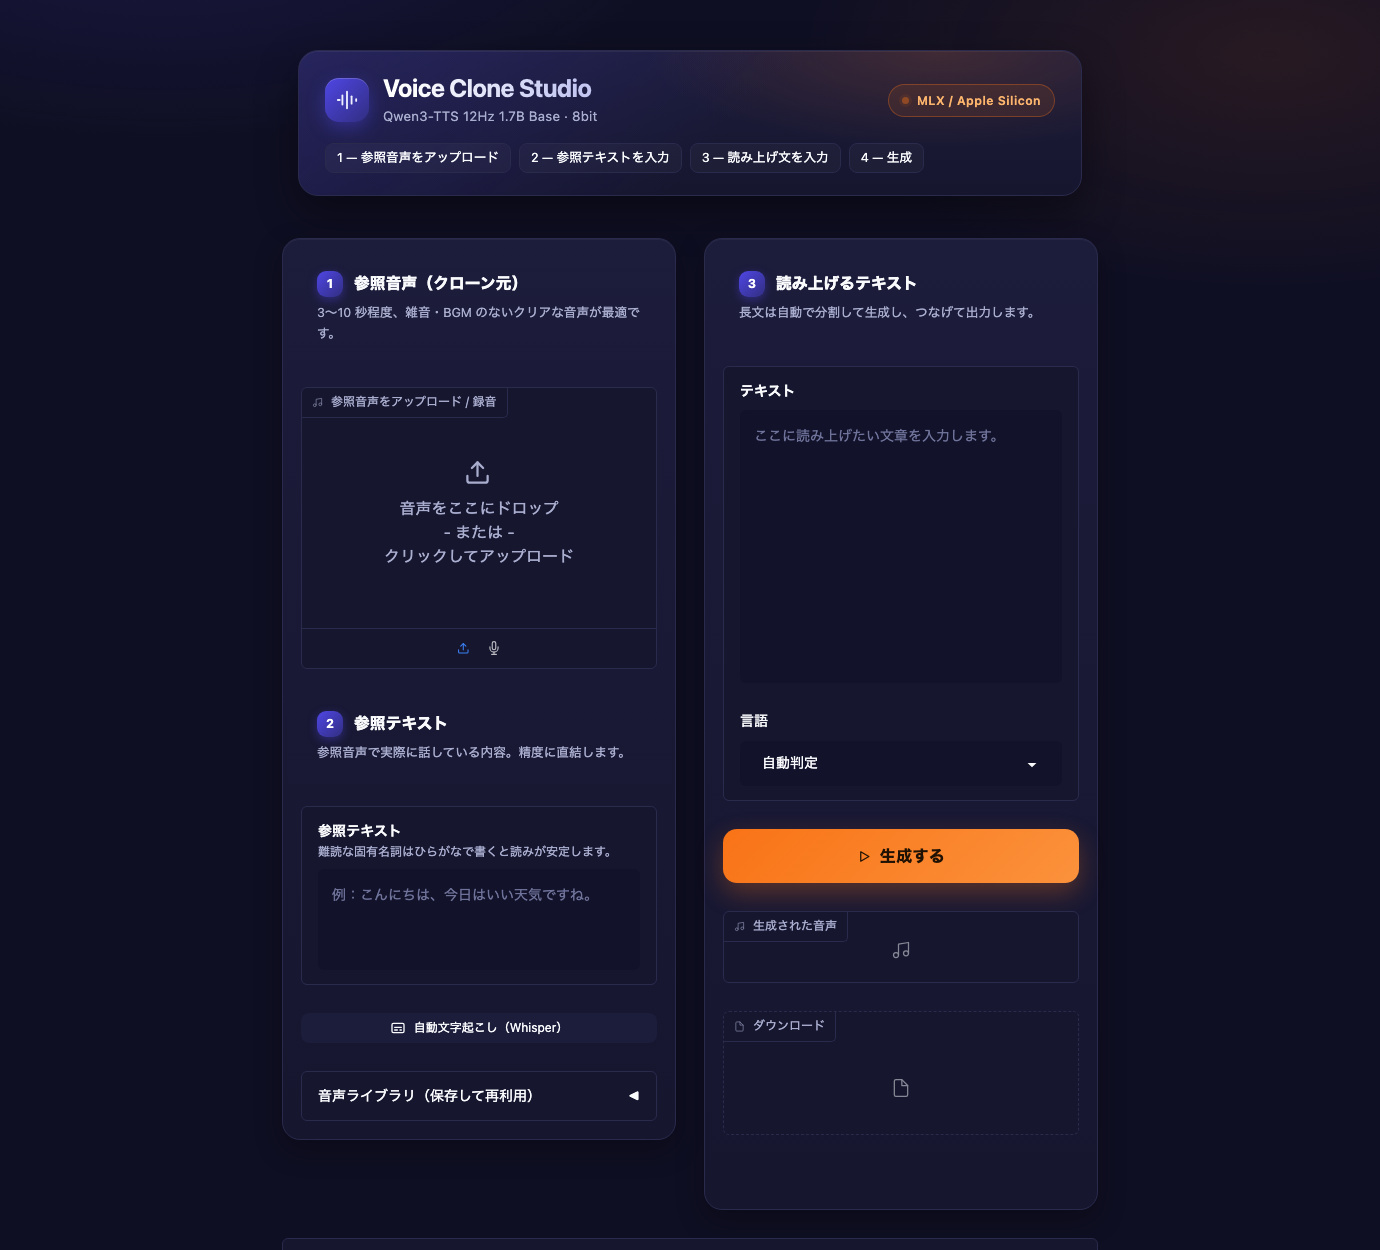
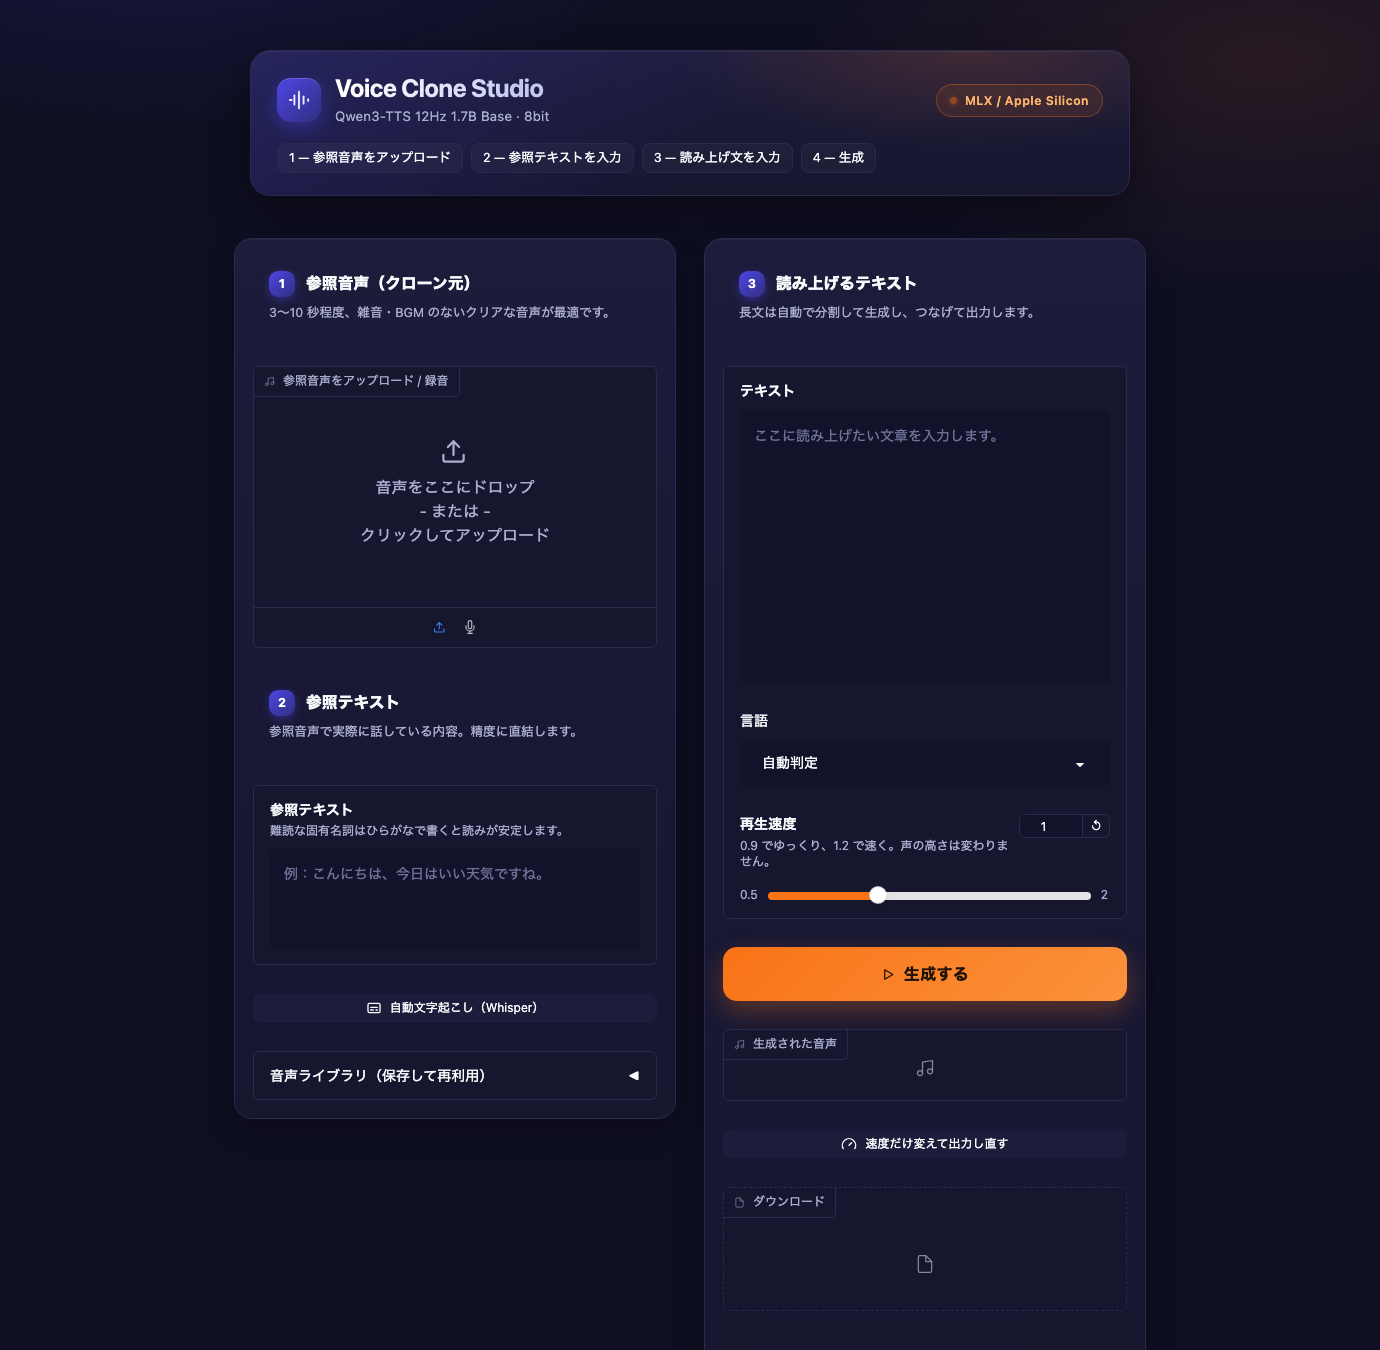
再生速度の指定と、速度だけ変えての再出力に対応
Qwen3-TTS 自体は話速指定に対応していない（mlx-audio の speed は
Qwen3-TTS では未実装）ため、生成後に WSOLA で伸縮する。単純な
リサンプリングと違い声の高さは変わらない。

- change_speed(): ピッチ保持のテンポ変更（0.75〜1.25 倍で長さ誤差 2% 以内、
  F0 変化 0.5% 以内、Whisper での聞き取りも確認）
- 再生速度スライダー（0.5〜2.0）を追加。ダウンロードされる WAV も
  速度適用後のものになり、等倍以外はファイル名に _x0.90 が付く
- 等倍の音声を gr.State に保持し、「速度だけ変えて出力し直す」で
  TTS を再実行せずに掛け直せるようにした
- 保存とカード生成を _finalize() に集約。RTF は速度適用前の長さで算出

diff --git a/app.py b/app.py
@@ -102,6 +102,57 @@ def split_text(text: str, max_chars: int) -> list[str]:
 
 
 # --------------------------------------------------------------------------
+# 再生速度（WSOLA によるピッチ保持のテンポ変更）
+# --------------------------------------------------------------------------
+def change_speed(audio: np.ndarray, speed: float, sample_rate: int) -> np.ndarray:
+    """速度を変える。speed<1 で遅く、>1 で速くなる。ピッチは変わらない。
+
+    Qwen3-TTS 側に速度指定が無いため生成後に伸縮する。単純なリサンプリングだと
+    声の高さまで変わってしまうので、波形の周期に合わせて重ね合わせる WSOLA を使う。
+    """
+    if abs(speed - 1.0) < 1e-3 or len(audio) == 0:
+        return audio.astype(np.float32)
+
+    frame = int(sample_rate * 0.040)  # 40ms の分析窓
+    hop_out = frame // 2  # 出力側ホップ（50% オーバーラップ）
+    hop_in = max(1, int(round(hop_out * speed)))  # 入力側ホップ
+    search = int(sample_rate * 0.010)  # 前フレームとの整合を探す幅（±10ms）
+    overlap = frame - hop_out
+    window = np.hanning(frame).astype(np.float32)
+
+    x = np.concatenate(
+        [audio.astype(np.float32), np.zeros(frame + search + hop_in, np.float32)]
+    )
+    out_len = int(len(audio) / speed) + 2 * frame
+    out = np.zeros(out_len, np.float32)
+    norm = np.zeros(out_len, np.float32)
+
+    pos_in = pos_out = 0
+    tail = None
+    while pos_in + frame + search < len(x) and pos_out + frame < out_len:
+        if tail is None:
+            best = pos_in
+        else:
+            # 直前フレームの後半と最も似た位置を探し、位相のずれによる濁りを防ぐ
+            lo = max(0, pos_in - search)
+            hi = min(len(x) - frame, pos_in + search)
+            if hi <= lo:
+                best = min(pos_in, len(x) - frame)
+            else:
+                seg = x[lo : hi + overlap]
+                best = lo + int(np.argmax(np.correlate(seg, tail, mode="valid")))
+        out[pos_out : pos_out + frame] += x[best : best + frame] * window
+        norm[pos_out : pos_out + frame] += window
+        tail = x[best + hop_out : best + hop_out + overlap]
+        pos_out += hop_out
+        pos_in += hop_in
+
+    end = pos_out + frame
+    norm[:end][norm[:end] < 1e-6] = 1.0
+    return (out[:end] / norm[:end]).astype(np.float32)
+
+
+# --------------------------------------------------------------------------
 # 文字起こし
 # --------------------------------------------------------------------------
 def transcribe(ref_audio: str | None) -> str:
@@ -130,6 +181,7 @@ def synthesize(
     chunk_chars: int,
     pause_sec: float,
     seed: int,
+    speed: float = 1.0,
     progress=gr.Progress(),
 ):
     if not ref_audio:
@@ -181,25 +233,49 @@ def synthesize(
 
     audio = np.concatenate(audio_parts)
     elapsed = time.time() - t0
-    duration = len(audio) / sample_rate
+    raw_duration = len(audio) / sample_rate
 
-    out_path = OUTPUT_DIR / f"{datetime.now():%Y%m%d-%H%M%S}.wav"
-    sf.write(out_path, audio, sample_rate)
-
-    metrics = [
-        (f"{duration:.1f}s", "音声の長さ"),
+    extra = [
         (f"{elapsed:.1f}s", "生成時間"),
-        (f"{elapsed / duration:.2f}", "RTF"),
+        (f"{elapsed / raw_duration:.2f}", "RTF"),
         (str(len(chunks)), "チャンク"),
         (str(total_tokens), "トークン"),
     ]
+    return (*_finalize(audio, sample_rate, speed, extra), (sample_rate, audio))
+
+
+def _finalize(
+    audio: np.ndarray,
+    sample_rate: int,
+    speed: float,
+    extra_metrics: list[tuple[str, str]] | None = None,
+    head: str = "生成が完了しました",
+):
+    """速度を適用して WAV に保存し、(音声, 保存パス, 結果カード HTML) を返す。"""
+    out = change_speed(audio, float(speed), sample_rate)
+    duration = len(out) / sample_rate
+
+    suffix = "" if abs(speed - 1.0) < 1e-3 else f"_x{speed:.2f}"
+    out_path = OUTPUT_DIR / f"{datetime.now():%Y%m%d-%H%M%S}{suffix}.wav"
+    sf.write(out_path, out, sample_rate)
+
+    metrics = [(f"{duration:.1f}s", "音声の長さ"), (f"{speed:.2f}x", "再生速度")]
+    metrics += extra_metrics or []
     cells = "".join(f"<div><b>{v}</b><span>{k}</span></div>" for v, k in metrics)
     info = (
-        '<div class="result-card"><div class="result-head">生成が完了しました</div>'
+        f'<div class="result-card"><div class="result-head">{head}</div>'
         f'<div class="result-metrics">{cells}</div>'
         f'<div class="result-path">{escape(str(out_path))}</div></div>'
     )
-    return (sample_rate, audio), str(out_path), info
+    return (sample_rate, out), str(out_path), info
+
+
+def apply_speed(raw, speed: float):
+    """生成済みの音声に速度だけ掛け直す（TTS は再実行しない）。"""
+    if not raw:
+        raise gr.Error("先に音声を生成してください。")
+    sample_rate, audio = raw
+    return _finalize(audio, sample_rate, speed, head="速度を変更しました")
 
 
 # --------------------------------------------------------------------------
@@ -315,6 +391,14 @@ with gr.Blocks(title="Voice Clone Studio — Qwen3-TTS") as demo:
             lang = gr.Dropdown(
                 label="言語", choices=LANGUAGES, value="auto", filterable=False
             )
+            speed = gr.Slider(
+                0.5,
+                2.0,
+                value=1.0,
+                step=0.05,
+                label="再生速度",
+                info="0.9 でゆっくり、1.2 で速く。声の高さは変わりません。",
+            )
             run_btn = gr.Button(
                 "生成する", variant="primary", size="lg", elem_classes=["cta", "ic-play"]
             )
@@ -322,8 +406,12 @@ with gr.Blocks(title="Voice Clone Studio — Qwen3-TTS") as demo:
             out_audio = gr.Audio(
                 label="生成された音声", type="numpy", autoplay=False, elem_classes="slim"
             )
+            speed_btn = gr.Button(
+                "速度だけ変えて出力し直す", size="sm", elem_classes="ic-speed"
+            )
             out_file = gr.File(label="ダウンロード", elem_classes="slim")
             out_info = gr.HTML()
+            raw_audio_state = gr.State()
 
     with gr.Accordion("詳細設定", open=False):
         with gr.Row():
@@ -354,8 +442,13 @@ with gr.Blocks(title="Voice Clone Studio — Qwen3-TTS") as demo:
         synthesize,
         inputs=[
             ref_audio, ref_text, text, lang, temperature, top_k, top_p,
-            repetition_penalty, max_tokens, chunk_chars, pause_sec, seed,
+            repetition_penalty, max_tokens, chunk_chars, pause_sec, seed, speed,
         ],
+        outputs=[out_audio, out_file, out_info, raw_audio_state],
+    )
+    speed_btn.click(
+        apply_speed,
+        inputs=[raw_audio_state, speed],
         outputs=[out_audio, out_file, out_info],
     )
 

diff --git a/theme.py b/theme.py
@@ -59,6 +59,7 @@ _ICON_PATHS = {
         "<path d='M10 11v6'/><path d='M14 11v6'/>"
     ),
     "play": "<path d='M6 4.5v15l13-7.5Z'/>",
+    "speed": "<path d='m12 14 4-4'/><path d='M3.34 19a10 10 0 1 1 17.32 0'/>",
     "check": (
         "<path d='M22 11.1V12a10 10 0 1 1-5.9-9.1'/><path d='m9 11 3 3 10-10'/>"
     ),
@@ -254,14 +255,17 @@ body, gradio-app {{
 /* ---------- ボタン ---------- */
 .gradio-container button {{ cursor:pointer; transition: filter .2s ease, background-color .2s ease, border-color .2s ease; }}
 button.ic-mic, button.ic-captions, button.ic-save, button.ic-folder,
-button.ic-trash, button.ic-play, .ic-mic > button, .ic-captions > button,
-.ic-save > button, .ic-folder > button, .ic-trash > button, .ic-play > button {{
+button.ic-trash, button.ic-play, button.ic-speed, .ic-mic > button, .ic-captions > button,
+.ic-save > button, .ic-folder > button, .ic-trash > button, .ic-play > button,
+.ic-speed > button {{
   display:inline-flex !important; align-items:center; justify-content:center; gap:8px;
 }}
 button.ic-mic::before, button.ic-captions::before, button.ic-save::before,
 button.ic-folder::before, button.ic-trash::before, button.ic-play::before,
+button.ic-speed::before,
 .ic-mic > button::before, .ic-captions > button::before, .ic-save > button::before,
-.ic-folder > button::before, .ic-trash > button::before, .ic-play > button::before {{
+.ic-folder > button::before, .ic-trash > button::before, .ic-play > button::before,
+.ic-speed > button::before {{
   content:""; width:16px; height:16px; flex:none;
   background-color: currentColor;
   -webkit-mask-repeat:no-repeat; mask-repeat:no-repeat;

diff --git a/README.md b/README.md
@@ -49,7 +49,8 @@ http://127.0.0.1:7860 が自動で開きます。停止は `Ctrl+C`。
 1. **参照音声をアップロード** — クローンしたい声。**3〜10 秒程度**、雑音・BGM・複数話者なしのクリアな音声が最適。マイク録音も可
 2. **参照テキストを入力** — その音声で実際に話している内容。「自動文字起こし（Whisper）」ボタンで書き起こさせることもできます
 3. **読み上げるテキストを入力** → 「生成する」
-4. 生成音声は再生・ダウンロードできるほか、`outputs/` に日時つき WAV（24kHz）で自動保存されます
+4. 必要なら「再生速度」を調整。生成後に「速度だけ変えて出力し直す」を押せば、TTS を再実行せずに速度だけ変えられます
+5. 生成音声は再生・ダウンロードできるほか、`outputs/` に日時つき WAV（24kHz）で自動保存されます。ダウンロードされるファイルは速度を適用した後の音声です（等倍以外はファイル名に `_x0.90` のような接尾辞が付きます）
 
 よく使う声は「音声ライブラリ」から名前をつけて保存すると、参照音声と参照テキストのペアが `voices/` に保存され、次回から選ぶだけで再利用できます。
 
@@ -104,6 +105,7 @@ http://127.0.0.1:7860 が自動で開きます。停止は `Ctrl+C`。
 | 項目 | 既定値 | 説明 |
 | --- | --- | --- |
 | 言語 | 自動判定 | 上記 10 言語に対応 |
+| 再生速度 | 1.0 | 0.5〜2.0 倍。声の高さは変えずに話速だけ変わる |
 | temperature | 0.9 | 高いほど抑揚が豊かで不安定。落ち着かせたいなら 0.7 前後 |
 | top_k / top_p | 50 / 1.0 | サンプリング範囲 |
 | repetition_penalty | 1.5 | 下げると同じ音の繰り返しが出やすい。ICL モードでは 1.5 が下限として強制される |
@@ -113,6 +115,8 @@ http://127.0.0.1:7860 が自動で開きます。停止は `Ctrl+C`。
 | チャンク間の無音 | 0.2 秒 | 分割生成した音声をつなぐ際の間 |
 
 長文が自動分割されるのは、ICL モードでは mlx-audio 側がテキスト分割を行わないためです。本アプリが文単位でチャンクに分け、逐次生成して無音を挟み結合しています。
+
+再生速度は Qwen3-TTS 自体が話速指定に対応していないため、生成後の波形処理（WSOLA）で伸縮しています。単純なリサンプリングと違って声の高さは変わりません。0.75〜1.25 倍で実測したところ、長さの誤差は 2% 以内、基本周波数の変化は 0.5% 以内でした。
 
 ## 環境変数
 

diff --git a/CLAUDE.md b/CLAUDE.md
@@ -43,7 +43,8 @@ print(r[1])"
 - `app.py` — UI 定義と処理の両方。`_model` / `_stt` はモジュールグローバルの遅延シングルトン（`get_model()` / `get_stt()` 経由でのみ触る）
 - `theme.py` — 配色トークン、`build_theme()`、`CSS`、`HEADER_HTML`、`step_html()`。機能側からは表示にしか使われないので、まるごと差し替えても生成処理は壊れない
 - `model.generate()` はジェネレータで `GenerationResult` を yield する。音声は `result.audio`（`mx.array`）なので `np.asarray(...)` で変換してから連結する
-- `synthesize()` の戻り値は `(sample_rate, audio), 保存パス, 結果カードの HTML` の 3 つ組。3 番目は `gr.HTML` に流し込む前提の文字列で、`theme.py` の `.result-card` 系 CSS に依存している
+- `synthesize()` の戻り値は `(sample_rate, audio), 保存パス, 結果カードの HTML, 等倍の生データ` の 4 つ組。3 番目は `gr.HTML` に流し込む前提の文字列で、`theme.py` の `.result-card` 系 CSS に依存している。4 番目は `gr.State` に入り、`apply_speed()` が TTS を再実行せず速度だけ掛け直すために使う
+- 保存とカード生成は `_finalize()` に集約してある。速度の適用・ファイル名の接尾辞・メトリクス表示はすべてここを通る
 
 ## 規約・地雷
 
@@ -53,6 +54,8 @@ print(r[1])"
 - ICL モードは**テキストを分割しない**。長文をそのまま渡すと 1 回の生成で処理される。`app.py` 側で `split_text()` してチャンクごとに `generate()` を呼び、無音を挟んで結合しているのはこの穴を埋めるため。`split_pattern=None` を渡しているのは mlx-audio 側の二重分割を避けるため
 - ICL モードでは `repetition_penalty` に `max(値, 1.5)` が適用される。UI で 1.0 にしても 1.5 として扱われる
 - 参照音声と参照テキストの組は mlx-audio 内部でキャッシュされる。参照テキストを書き換えると再エンコードが走る
+- `generate(speed=...)` は Qwen3-TTS では**効かない**（mlx-audio の docstring に "not directly supported yet"、`_generate_icl` にも渡っていない）。話速は `change_speed()` の WSOLA で生成後に伸縮している。ここをリサンプリングに置き換えると声の高さまで変わるので不可
+- RTF は速度適用**前**の長さで計算する。速度を掛けた後の長さで割ると生成コストの指標にならない
 
 **Gradio 6 固有**
 
